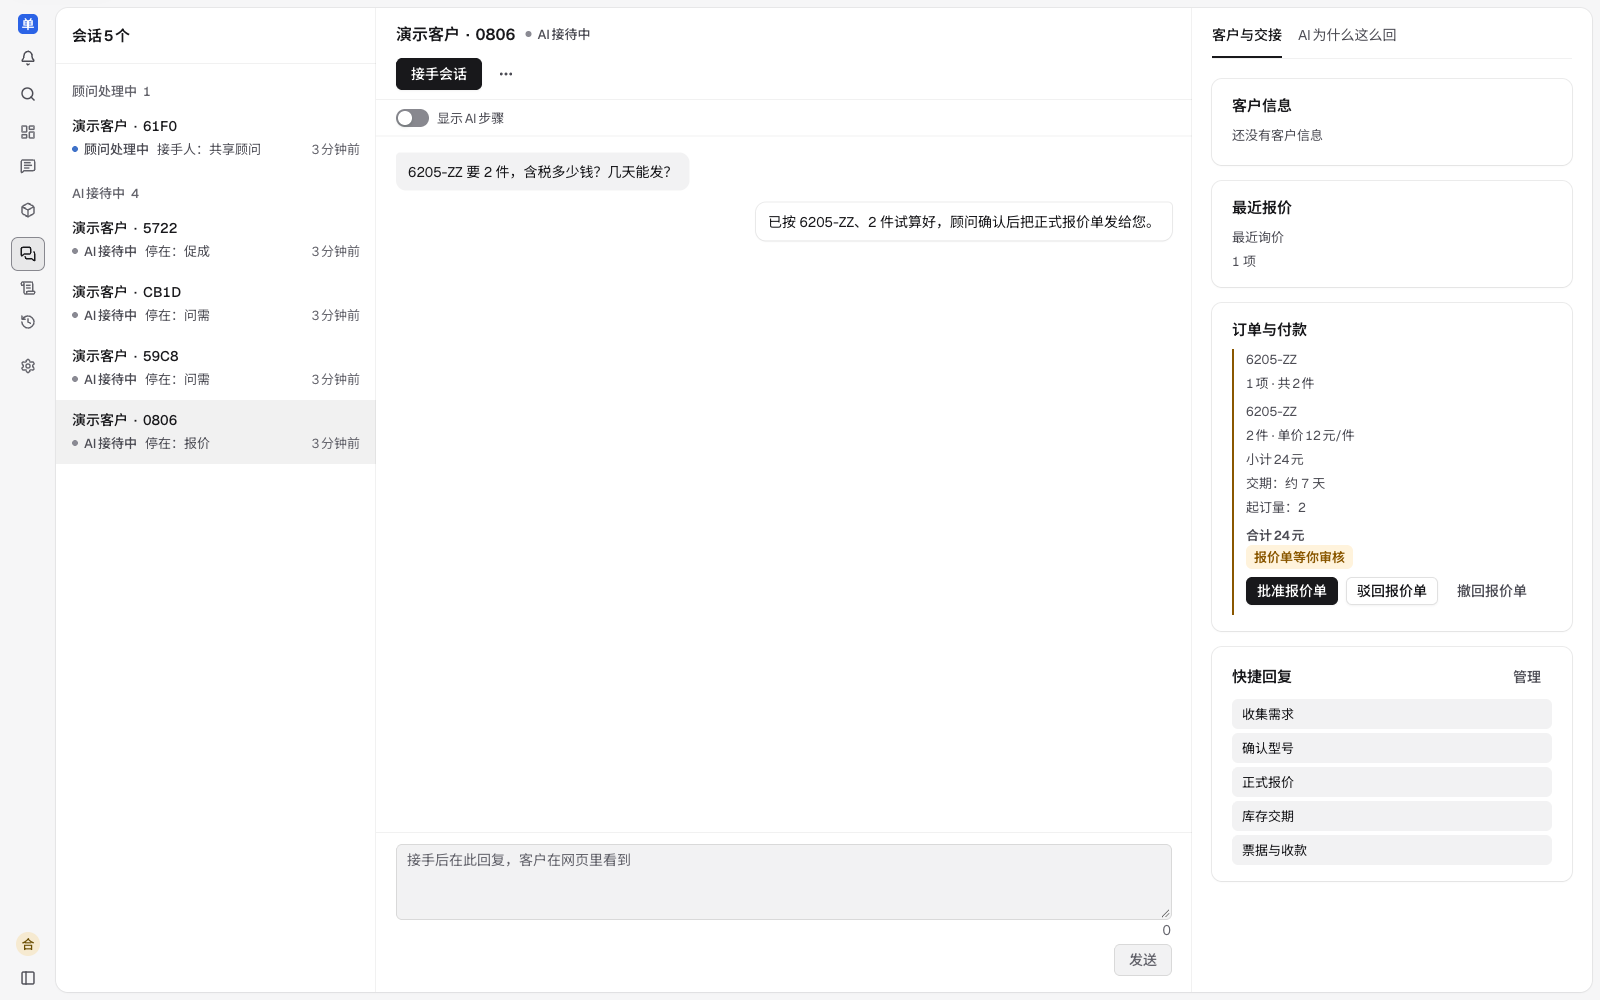
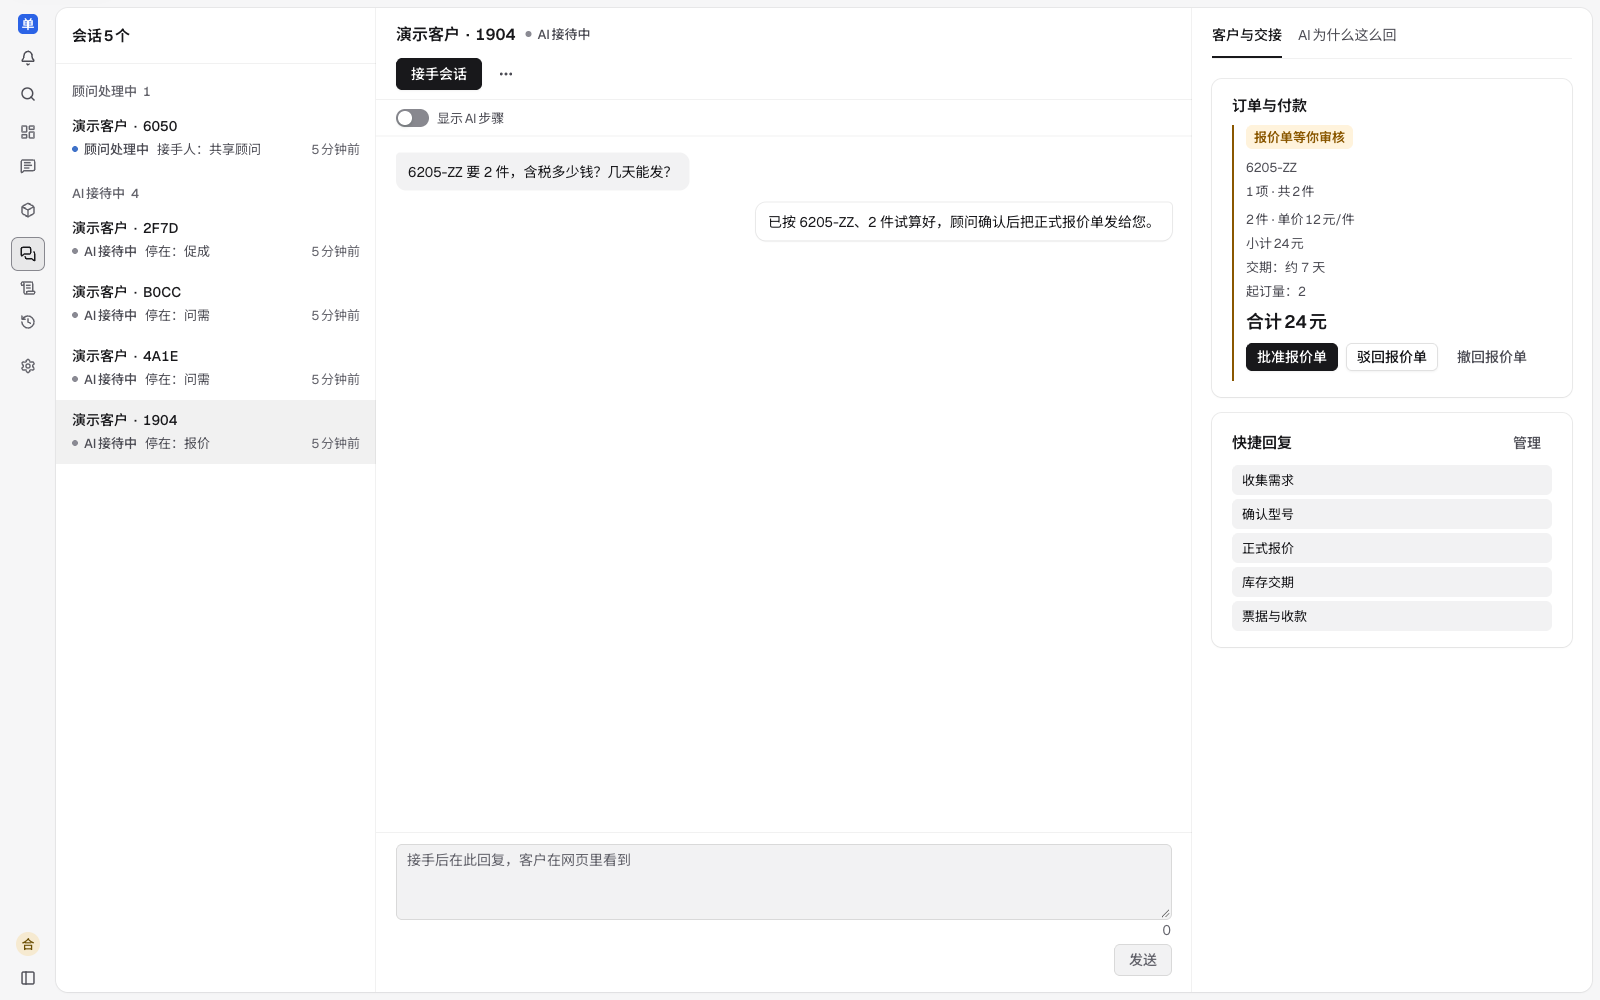
feat(15): reorder workbench rail for quotes

diff --git a/console/src/conversations/WorkbenchPage.tsx b/console/src/conversations/WorkbenchPage.tsx
@@ -41,7 +41,7 @@ import { cjk } from '../typography.js';
 import { refreshSandboxProgress, usePack, useViewer } from '../viewer.js';
 import { OwnConversationTag, SimulatorLink } from '../sandbox/Sandbox.js';
 import { stageLabel } from './model.js';
-import { QuoteActions, type QuoteAction, type QuoteActionProps } from './QuoteActions.js';
+import { QUOTE_STATE_LABEL, QuoteActions, type QuoteAction, type QuoteActionProps } from './QuoteActions.js';
 import { QuickRepliesCard } from './QuickReplies.js';
 import { TraceTab } from './TraceDetail.js';
 import {
@@ -693,11 +693,11 @@ function ReplyBox({
 export function ProfileCard({ cd, now }: { cd: Pick<ConversationDetail, 'profileCard' | 'need'>; now: number }) {
   if (cd.profileCard) {
     const card = cd.profileCard;
+    if (!card.title && card.rows.length === 0) return null;
     return (
       <div className="wb-card">
         <h3 className="wb-card-title">客户信息</h3>
         {card.title ? <p>{cjk(card.title)}</p> : null}
-        {!card.title && card.rows.length === 0 ? <p className="wb-card-empty">还没有客户信息</p> : null}
         <dl className="wb-profile-rows">
           {card.rows.map((row, i) => (
             <div key={i}>
@@ -780,6 +780,11 @@ export function OrderRow({
   const quote = 'approval' in o && o.approval ? o : null;
   return (
     <div className={quote?.quoteState === 'pending' ? 'wb-order is-quote-pending' : 'wb-order'}>
+      {quote && quoteActions && (
+        <p className="wb-order-status wb-quote-state" data-state={quote.quoteState ?? undefined}>
+          {quote.quoteState ? QUOTE_STATE_LABEL[quote.quoteState] : '报价单'}
+        </p>
+      )}
       {'display' in o ? (
         <div className="wb-order-display">
           <p className="wb-order-line">{cjk(o.display.title)}</p>
@@ -787,7 +792,8 @@ export function OrderRow({
           <ul className="wb-order-lines">
             {o.display.lines.map((line, i) => (
               <li key={i}>
-                <p className="wb-order-line">{cjk(line.title)}</p>
+                {/* 只有一行时标题已在卡片头，不重复 */}
+                {o.display.lines.length > 1 && <p className="wb-order-line">{cjk(line.title)}</p>}
                 <p>{cjk(`${line.qtyText} · 单价${line.unitPriceText}`)}</p>
                 <p>{cjk(`小计${line.amountText}`)}</p>
                 {Object.entries(line.attrs ?? {}).map(([key, value]) => (
@@ -1056,6 +1062,53 @@ function Detail({ id, pack, me }: { id: string; pack: IndustryPack; me: { userId
     );
   };
 
+  // 有订单时报价单就是这一屏的待办：转人工、订单排在最前，工业包「最近报价」与报价单重复，不再单列。
+  const hasOrders = detail.orders.length > 0;
+  const ordersCard = (
+    <div className="wb-card">
+      <h3 className="wb-card-title">订单与付款</h3>
+      {hasQuotes && (q.isFetching || q.error) ? (
+        <StateView pending={q.isFetching} error={q.error} onRetry={() => void q.refetch()} />
+      ) : detail.orders.length === 0 ? (
+        <p className="wb-side-empty">还没有订单</p>
+      ) : (
+        detail.orders.map((o) => (
+          <OrderRow
+            key={o.id}
+            o={o}
+            quoteActions={{
+              can: detail.can,
+              window: detail.sendWindow,
+              now,
+              pending: quoteOrder.isPending || q.isFetching,
+              onRetry: () => {
+                if (quoteOrder.variables) quoteOrder.mutate(quoteOrder.variables);
+              },
+              error: quoteOrder.variables?.orderId === o.id ? quoteOrder.error : null,
+              onAction: (action, reason) => {
+                if (quoteOrder.variables?.orderId === o.id && quoteError?.status === 403) return;
+                quoteOrder.mutate({ orderId: o.id, action, reason });
+              },
+            }}
+            canConfirm={detail.can.confirmOrder}
+            canMarkPaid={detail.can.markPaid}
+            onConfirm={() => confirmOrder.mutate(o.id)}
+            onMarkPaid={() => markPaid.mutate(o.id)}
+            onCancel={(reason) => cancelOrder.mutate({ orderId: o.id, reason })}
+            confirmError={confirmOrder.error}
+            markPaidError={markPaid.error}
+            cancelError={cancelOrder.error}
+            role={me.role}
+            mode={detail.paymentMode}
+            onRefund={(action, reason) => refundOrder.mutate({ orderId: o.id, action, reason })}
+            refundError={refundOrder.variables?.orderId === o.id ? refundOrder.error : null}
+            refundPending={refundOrder.isPending}
+          />
+        ))
+      )}
+    </div>
+  );
+
   return (
     <>
       <div className="wb-conv">
@@ -1152,54 +1205,6 @@ function Detail({ id, pack, me }: { id: string; pack: IndustryPack; me: { userId
           <TraceTab id={id} turnId={selectedTurnId} />
         ) : (
           <>
-            <ProfileCard cd={detail} now={now} />
-            {hasQuotes && (q.isFetching || q.error) ? (
-              <StateView pending={q.isFetching} error={q.error} onRetry={() => void q.refetch()} />
-            ) : (
-              <QuoteCard cd={detail} />
-            )}
-            <div className="wb-card">
-              <h3 className="wb-card-title">订单与付款</h3>
-              {hasQuotes && (q.isFetching || q.error) ? (
-                <StateView pending={q.isFetching} error={q.error} onRetry={() => void q.refetch()} />
-              ) : detail.orders.length === 0 ? (
-                <p className="wb-side-empty">还没有订单</p>
-              ) : (
-                detail.orders.map((o) => (
-                  <OrderRow
-                    key={o.id}
-                    o={o}
-                    quoteActions={{
-                      can: detail.can,
-                      window: detail.sendWindow,
-                      now,
-                      pending: quoteOrder.isPending || q.isFetching,
-                      onRetry: () => {
-                        if (quoteOrder.variables) quoteOrder.mutate(quoteOrder.variables);
-                      },
-                      error: quoteOrder.variables?.orderId === o.id ? quoteOrder.error : null,
-                      onAction: (action, reason) => {
-                        if (quoteOrder.variables?.orderId === o.id && quoteError?.status === 403) return;
-                        quoteOrder.mutate({ orderId: o.id, action, reason });
-                      },
-                    }}
-                    canConfirm={detail.can.confirmOrder}
-                    canMarkPaid={detail.can.markPaid}
-                    onConfirm={() => confirmOrder.mutate(o.id)}
-                    onMarkPaid={() => markPaid.mutate(o.id)}
-                    onCancel={(reason) => cancelOrder.mutate({ orderId: o.id, reason })}
-                    confirmError={confirmOrder.error}
-                    markPaidError={markPaid.error}
-                    cancelError={cancelOrder.error}
-                    role={me.role}
-                    mode={detail.paymentMode}
-                    onRefund={(action, reason) => refundOrder.mutate({ orderId: o.id, action, reason })}
-                    refundError={refundOrder.variables?.orderId === o.id ? refundOrder.error : null}
-                    refundPending={refundOrder.isPending}
-                  />
-                ))
-              )}
-            </div>
             {detail.handoffCard && (
               <div className="wb-card">
                 <h3 className="wb-card-title">转人工</h3>
@@ -1208,6 +1213,16 @@ function Detail({ id, pack, me }: { id: string; pack: IndustryPack; me: { userId
                 <p>{`由谁处理：${detail.handoffCard.assigneeName ?? '还没人接手'}`}</p>
               </div>
             )}
+            {hasOrders && ordersCard}
+            <ProfileCard cd={detail} now={now} />
+            {!(hasOrders && detail.quoteCard) &&
+              (hasQuotes || detail.quoteCard || detail.quote) &&
+              (hasQuotes && (q.isFetching || q.error) ? (
+                <StateView pending={q.isFetching} error={q.error} onRetry={() => void q.refetch()} />
+              ) : (
+                <QuoteCard cd={detail} />
+              ))}
+            {!hasOrders && ordersCard}
             <QuickRepliesCard
               onInsert={(body) => setReplyText((t) => (t ? `${t}\n${body}` : body))}
               canManage={CAN_MANAGE_REPLIES_ROLES.has(me.role)}

diff --git a/console/src/conversations/QuickReplies.tsx b/console/src/conversations/QuickReplies.tsx
@@ -15,6 +15,7 @@ import { ConfirmDanger } from '../parts/ConfirmDanger.js';
 import { errorLine } from '../parts/ErrorAlert.js';
 import { PrimaryButton } from '../parts/PrimaryButton.js';
 import { IconButton } from '../shell/IconButton.js';
+import { StateView } from '../parts/StateView.js';
 import { cjk } from '../typography.js';
 import { QUICK_REPLIES_KEY } from './workbench.js';
 
@@ -51,19 +52,22 @@ export function QuickRepliesCard({ onInsert, canManage }: { onInsert: (body: str
           </Button>
         )}
       </div>
-      {items.length === 0 ? (
-        <p className="wb-side-empty">还没有快捷回复</p>
-      ) : (
-        <ul className="wb-quick-list">
-          {items.map((r) => (
-            <li key={r.id}>
-              <button type="button" className="wb-quick-btn" onClick={() => onInsert(r.body)}>
-                {cjk(r.title)}
-              </button>
-            </li>
-          ))}
-        </ul>
-      )}
+      {/* 加载中和读取失败不能说成「还没有」 */}
+      <StateView level={3} pending={q.isPending} error={q.error} onRetry={() => void q.refetch()}>
+        {items.length === 0 ? (
+          <p className="wb-side-empty">还没有快捷回复</p>
+        ) : (
+          <ul className="wb-quick-list">
+            {items.map((r) => (
+              <li key={r.id}>
+                <button type="button" className="wb-quick-btn" onClick={() => onInsert(r.body)}>
+                  {cjk(r.title)}
+                </button>
+              </li>
+            ))}
+          </ul>
+        )}
+      </StateView>
       {canManage && <QuickRepliesDrawer open={drawerOpen} onClose={() => setDrawerOpen(false)} />}
     </div>
   );

diff --git a/console/src/conversations/workbench.css b/console/src/conversations/workbench.css
@@ -489,15 +489,11 @@
 }
 .wb-quote-state[data-state='pending'] {
   width: fit-content;
+  margin-bottom: 8px;
   padding: 2px 8px;
   border-radius: 6px;
   color: var(--warning);
   background: var(--warning-bg);
-}
-.wb-card-empty {
-  margin: 0;
-  font-size: 13px;
-  color: var(--text-3);
 }
 .wb-order-actions {
   display: flex;
@@ -670,8 +666,12 @@
   display: grid;
   gap: 8px;
 }
-.wb-order-total {
+.wb-card .wb-order-total {
+  margin: 8px 0 0;
+  font-size: 18px;
+  line-height: 26px;
   font-weight: 600;
+  font-variant-numeric: tabular-nums;
   color: var(--text);
 }
 .wb-profile-rows {

diff --git a/console/src/conversations/QuoteActions.tsx b/console/src/conversations/QuoteActions.tsx
@@ -52,9 +52,6 @@ export function QuoteActions({
   const sendNote = warning ?? (view?.text ? cjk(view.text) : null);
   return (
     <>
-      <p className="wb-order-status wb-quote-state" data-state={state ?? undefined}>
-        {state ? QUOTE_STATE_LABEL[state] : '报价单'}
-      </p>
       {order.approval?.reason && <p>{`原因：${order.approval.reason}`}</p>}
       {order.approval?.decidedBy && <p>{`审批人：${order.approval.decidedBy.name}`}</p>}
       {(state === 'pending' || state === 'approved' || state === 'expired') && (
